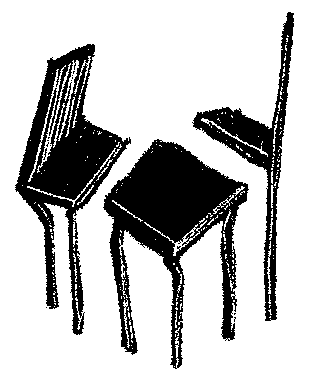
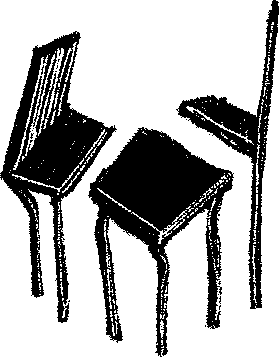
mass

Changed region(s): [[0.0, 0.0, 1.0, 1.0], [0.4301, 0.4006, 0.4588, 0.4314], [0.4014, 0.4314, 0.4301, 0.4622]]

diff --git a/assets/css/cusdis.css b/assets/css/cusdis.css
@@ -1,1 +1,1 @@
-/*! tailwindcss v2.2.19 | MIT License | https://tailwindcss.com *//*! modern-normalize v1.1.0 | MIT License | https://github.com/sindresorhus/modern-normalize */*,:before,:after{box-sizing:border-box}html{-moz-tab-size:4;-o-tab-size:4;tab-size:4}html{line-height:1.15;-webkit-text-size-adjust:100%}body{margin:0}body{font-family:system-ui,-apple-system,Segoe UI,Roboto,Helvetica,Arial,sans-serif,"Apple Color Emoji","Segoe UI Emoji"}hr{height:0;color:inherit}abbr[title]{-webkit-text-decoration:underline dotted;text-decoration:underline dotted}b,strong{font-weight:bolder}code,kbd,samp,pre{font-family:ui-monospace,SFMono-Regular,Consolas,Liberation Mono,Menlo,monospace;font-size:1em}small{font-size:80%}sub,sup{font-size:75%;line-height:0;position:relative;vertical-align:baseline}sub{bottom:-.25em}sup{top:-.5em}table{text-indent:0;border-color:inherit}button,input,optgroup,select,textarea{font-family:inherit;font-size:100%;line-height:1.15;margin:0}button,select{text-transform:none}button,[type=button]{-webkit-appearance:button}::-moz-focus-inner{border-style:none;padding:0}legend{padding:0}progress{vertical-align:baseline}::-webkit-inner-spin-button,::-webkit-outer-spin-button{height:auto}::-webkit-search-decoration{-webkit-appearance:none}::-webkit-file-upload-button{-webkit-appearance:button;font:inherit}summary{display:list-item}blockquote,dl,dd,h1,h2,h3,h4,h5,h6,hr,figure,p,pre{margin:0}button{background-color:transparent;background-image:none}fieldset{margin:0;padding:0}ol,ul{list-style:none;margin:0;padding:0}html{font-family:ui-sans-serif,system-ui,-apple-system,BlinkMacSystemFont,Segoe UI,Roboto,Helvetica Neue,Arial,Noto Sans,sans-serif,"Apple Color Emoji","Segoe UI Emoji",Segoe UI Symbol,"Noto Color Emoji";line-height:1.5}body{font-family:inherit;line-height:inherit}*,:before,:after{box-sizing:border-box;border-width:0;border-style:solid;border-color:currentColor}hr{border-top-width:1px}img{border-style:solid}textarea{resize:vertical}input::-moz-placeholder,textarea::-moz-placeholder{opacity:1;color:#9ca3af}input::placeholder,textarea::placeholder{opacity:1;color:#9ca3af}button{cursor:pointer}table{border-collapse:collapse}h1,h2,h3,h4,h5,h6{font-size:inherit;font-weight:inherit}a{color:inherit;text-decoration:inherit}button,input,optgroup,select,textarea{padding:0;line-height:inherit;color:inherit}pre,code,kbd,samp{font-family:ui-monospace,SFMono-Regular,Menlo,Monaco,Consolas,Liberation Mono,Courier New,monospace}img,svg,video,canvas,audio,iframe,embed,object{display:block;vertical-align:middle}img,video{max-width:100%;height:auto}*,:before,:after{--tw-border-opacity: 1;border-color:rgba(229,231,235,var(--tw-border-opacity))}.my-2{margin-top:.5rem;margin-bottom:.5rem}.my-4{margin-top:1rem;margin-bottom:1rem}.my-8{margin-top:2rem;margin-bottom:2rem}.mt-4{margin-top:1rem}.mr-2{margin-right:.5rem}.mb-2{margin-bottom:.5rem}.mb-4{margin-bottom:1rem}.block{display:block}.flex{display:flex}.table{display:table}.grid{display:grid}.h-24{height:6rem}.w-full{width:100%}@-webkit-keyframes spin{to{transform:rotate(360deg)}}@keyframes spin{to{transform:rotate(360deg)}}@-webkit-keyframes ping{75%,to{transform:scale(2);opacity:0}}@keyframes ping{75%,to{transform:scale(2);opacity:0}}@-webkit-keyframes pulse{50%{opacity:.5}}@keyframes pulse{50%{opacity:.5}}@-webkit-keyframes bounce{0%,to{transform:translateY(-25%);-webkit-animation-timing-function:cubic-bezier(.8,0,1,1);animation-timing-function:cubic-bezier(.8,0,1,1)}50%{transform:none;-webkit-animation-timing-function:cubic-bezier(0,0,.2,1);animation-timing-function:cubic-bezier(0,0,.2,1)}}@keyframes bounce{0%,to{transform:translateY(-25%);-webkit-animation-timing-function:cubic-bezier(.8,0,1,1);animation-timing-function:cubic-bezier(.8,0,1,1)}50%{transform:none;-webkit-animation-timing-function:cubic-bezier(0,0,.2,1);animation-timing-function:cubic-bezier(0,0,.2,1)}}.grid-cols-1{grid-template-columns:repeat(1,minmax(0,1fr))}.grid-cols-2{grid-template-columns:repeat(2,minmax(0,1fr))}.items-center{align-items:center}.gap-4{gap:1rem}.rounded{border-radius:.25rem}.border,.dark .dark\:border{border-width:1px}.border-l-2{border-left-width:2px}.border-gray-200{--tw-border-opacity: 1;border-color:rgba(229,231,235,var(--tw-border-opacity))}.dark .dark\:border-gray-100{--tw-border-opacity: 1;border-color:rgba(243,244,246,var(--tw-border-opacity))}.bg-transparent{background-color:transparent}.bg-gray-100{--tw-bg-opacity: 1;background-color:rgba(243,244,246,var(--tw-bg-opacity))}.bg-gray-200{--tw-bg-opacity: 1;background-color:rgba(229,231,235,var(--tw-bg-opacity))}.bg-blue-500{--tw-bg-opacity: 1;background-color:rgba(59,130,246,var(--tw-bg-opacity))}.dark .dark\:bg-transparent{background-color:transparent}.dark .dark\:bg-gray-500{--tw-bg-opacity: 1;background-color:rgba(107,114,128,var(--tw-bg-opacity))}.p-2{padding:.5rem}.px-1{padding-left:.25rem;padding-right:.25rem}.px-2{padding-left:.5rem;padding-right:.5rem}.px-4{padding-left:1rem;padding-right:1rem}.py-0{padding-top:0;padding-bottom:0}.py-1{padding-top:.25rem;padding-bottom:.25rem}.py-2{padding-top:.5rem;padding-bottom:.5rem}.py-0\.5{padding-top:.125rem;padding-bottom:.125rem}.pl-4{padding-left:1rem}.text-center{text-align:center}.text-xs{font-size:.75rem;line-height:1rem}.text-sm{font-size:.875rem;line-height:1.25rem}.font-medium{font-weight:500}.font-bold{font-weight:700}.text-white{--tw-text-opacity: 1;color:rgba(255,255,255,var(--tw-text-opacity))}.text-gray-500{--tw-text-opacity: 1;color:rgba(107,114,128,var(--tw-text-opacity))}.text-gray-900{--tw-text-opacity: 1;color:rgba(17,24,39,var(--tw-text-opacity))}.dark .dark\:text-gray-100{--tw-text-opacity: 1;color:rgba(243,244,246,var(--tw-text-opacity))}.dark .dark\:text-gray-200{--tw-text-opacity: 1;color:rgba(229,231,235,var(--tw-text-opacity))}.dark .dark\:text-gray-400{--tw-text-opacity: 1;color:rgba(156,163,175,var(--tw-text-opacity))}.underline{text-decoration:underline}*,:before,:after{--tw-shadow: 0 0 #0000}.dark .dark\:outline-none{outline:2px solid transparent;outline-offset:2px}*,:before,:after{--tw-ring-inset: var(--tw-empty, );--tw-ring-offset-width: 0px;--tw-ring-offset-color: #fff;--tw-ring-color: rgba(59, 130, 246, .5);--tw-ring-offset-shadow: 0 0 #0000;--tw-ring-shadow: 0 0 #0000}blockquote{margin-top:1rem;margin-bottom:1rem;--tw-bg-opacity: 1;background-color:rgba(243,244,246,var(--tw-bg-opacity))}.dark blockquote{--tw-bg-opacity: 1;background-color:rgba(17,24,39,var(--tw-bg-opacity))}blockquote{padding:.5rem 1rem}
+/*! tailwindcss v2.2.19 | MIT License | https://tailwindcss.com *//*! modern-normalize v1.1.0 | MIT License | https://github.com/sindresorhus/modern-normalize */*,:before,:after{box-sizing:border-box}html{-moz-tab-size:4;-o-tab-size:4;tab-size:4}html{line-height:1.15;-webkit-text-size-adjust:100%}body{margin:0}body{font-family:system-ui,-apple-system,Segoe UI,Roboto,Helvetica,Arial,sans-serif,"Apple Color Emoji","Segoe UI Emoji"}hr{height:0;color:inherit}abbr[title]{-webkit-text-decoration:underline dotted;text-decoration:underline dotted}b,strong{font-weight:bolder}code,kbd,samp,pre{font-family:ui-monospace,SFMono-Regular,Consolas,Liberation Mono,Menlo,monospace;font-size:1em}small{font-size:80%}sub,sup{font-size:75%;line-height:0;position:relative;vertical-align:baseline}sub{bottom:-.25em}sup{top:-.5em}table{text-indent:0;border-color:inherit}button,input,optgroup,select,textarea{font-family:inherit;font-size:100%;line-height:1.15;margin:0}button,select{text-transform:none}button,[type=button]{-webkit-appearance:button}::-moz-focus-inner{border-style:none;padding:0}legend{padding:0}progress{vertical-align:baseline}::-webkit-inner-spin-button,::-webkit-outer-spin-button{height:auto}::-webkit-search-decoration{-webkit-appearance:none}::-webkit-file-upload-button{-webkit-appearance:button;font:inherit}summary{display:list-item}blockquote,dl,dd,h1,h2,h3,h4,h5,h6,hr,figure,p,pre{margin:0}button{background-color:transparent;background-image:none}fieldset{margin:0;padding:0}ol,ul{list-style:none;margin:0;padding:0}html{font-family:ui-sans-serif,system-ui,-apple-system,BlinkMacSystemFont,Segoe UI,Roboto,Helvetica Neue,Arial,Noto Sans,sans-serif,"Apple Color Emoji","Segoe UI Emoji",Segoe UI Symbol,"Noto Color Emoji";line-height:1.5}body{font-family:inherit;line-height:inherit}*,:before,:after{box-sizing:border-box;border-width:0;border-style:solid;border-color:currentColor}hr{border-top-width:1px}img{border-style:solid}textarea{resize:vertical}input::-moz-placeholder,textarea::-moz-placeholder{opacity:1;color:#9ca3af}input::placeholder,textarea::placeholder{opacity:1;color:#9ca3af}button{cursor:pointer}table{border-collapse:collapse}h1,h2,h3,h4,h5,h6{font-size:inherit;font-weight:inherit}a{color:inherit;text-decoration:inherit}button,input,optgroup,select,textarea{padding:0;line-height:inherit;color:inherit}pre,code,kbd,samp{font-family:ui-monospace,SFMono-Regular,Menlo,Monaco,Consolas,Liberation Mono,Courier New,monospace}img,svg,video,canvas,audio,iframe,embed,object{display:block;vertical-align:middle}img,video{max-width:100%;height:auto}*,:before,:after{--tw-border-opacity: 1;border-color:rgba(229,231,235,var(--tw-border-opacity))}.my-2{margin-top:.5rem;margin-bottom:.5rem}.my-4{margin-top:1rem;margin-bottom:1rem}.my-8{margin-top:2rem;margin-bottom:2rem}.mt-4{margin-top:1rem}.mr-2{margin-right:.5rem}.mb-2{margin-bottom:.5rem}.mb-4{margin-bottom:1rem}.block{display:block}.flex{display:flex}.table{display:table}.grid{display:grid}.h-24{height:6rem}.w-full{width:100%}@-webkit-keyframes spin{to{transform:rotate(360deg)}}@keyframes spin{to{transform:rotate(360deg)}}@-webkit-keyframes ping{75%,to{transform:scale(2);opacity:0}}@keyframes ping{75%,to{transform:scale(2);opacity:0}}@-webkit-keyframes pulse{50%{opacity:.5}}@keyframes pulse{50%{opacity:.5}}@-webkit-keyframes bounce{0%,to{transform:translateY(-25%);-webkit-animation-timing-function:cubic-bezier(.8,0,1,1);animation-timing-function:cubic-bezier(.8,0,1,1)}50%{transform:none;-webkit-animation-timing-function:cubic-bezier(0,0,.2,1);animation-timing-function:cubic-bezier(0,0,.2,1)}}@keyframes bounce{0%,to{transform:translateY(-25%);-webkit-animation-timing-function:cubic-bezier(.8,0,1,1);animation-timing-function:cubic-bezier(.8,0,1,1)}50%{transform:none;-webkit-animation-timing-function:cubic-bezier(0,0,.2,1);animation-timing-function:cubic-bezier(0,0,.2,1)}}.grid-cols-1{grid-template-columns:repeat(1,minmax(0,1fr))}.grid-cols-2{grid-template-columns:repeat(2,minmax(0,1fr))}.items-center{align-items:center}.gap-4{gap:1rem}.rounded{border-radius:.25rem}.border,.dark .dark\:border{border-width:1px}.border-l-2{border-left-width:2px}.border-gray-200{--tw-border-opacity: 1;border-color:rgba(229,231,235,var(--tw-border-opacity))}.dark .dark\:border-gray-100{--tw-border-opacity: 1;border-color:rgba(243,244,246,var(--tw-border-opacity))}.bg-transparent{background-color:transparent}.bg-gray-100{--tw-bg-opacity: 1;background-color:rgba(243,244,246,var(--tw-bg-opacity))}.bg-gray-200{--tw-bg-opacity: 1;background-color:rgba(229,231,235,var(--tw-bg-opacity))}.bg-blue-500{--tw-bg-opacity: 1;background-color:rgba(59,130,246,var(--tw-bg-opacity))}.dark .dark\:bg-transparent{background-color:transparent}.dark .dark\:bg-gray-500{--tw-bg-opacity: 1;background-color:rgba(107,114,128,var(--tw-bg-opacity))}.p-2{padding:.5rem}.px-1{padding-left:.25rem;padding-right:.25rem}.px-2{padding-left:.5rem;padding-right:.5rem}.px-4{padding-left:1rem;padding-right:1rem}.py-0{padding-top:0;padding-bottom:0}.py-1{padding-top:.25rem;padding-bottom:.25rem}.py-2{padding-top:.5rem;padding-bottom:.5rem}.py-0\.5{padding-top:.125rem;padding-bottom:.125rem}.pl-4{padding-left:1rem}.text-center{text-align:center}.text-xs{font-size:.75rem;line-height:1rem}.text-sm{font-size:.875rem;line-height:1.25rem}.font-medium{font-weight:500}.font-bold{font-weight:700}.text-white{--tw-text-opacity: 1;color:rgba(255,255,255,var(--tw-text-opacity))}.text-gray-500{--tw-text-opacity: 1;color:rgba(107,114,128,var(--tw-text-opacity))}.text-gray-900{--tw-text-opacity: 1;color:rgba(17,24,39,var(--tw-text-opacity))}.dark .dark\:text-gray-100{--tw-text-opacity: 1;color:rgba(243,244,246,var(--tw-text-opacity))}.dark .dark\:text-gray-200{--tw-text-opacity: 1;color:rgba(229,231,235,var(--tw-text-opacity))}.dark .dark\:text-gray-400{--tw-text-opacity: 1;color:rgba(156,163,175,var(--tw-text-opacity))}.underline{text-decoration:underline}*,:before,:after{--tw-shadow: 0 0 #0000}.dark .dark\:outline-none{outline:2px solid transparent;outline-offset:2px}*,:before,:after{--tw-ring-inset: var(--tw-empty, );--tw-ring-offset-width: 0px;--tw-ring-offset-color: #e1ffc4;--tw-ring-color: rgba(59, 130, 246, .5);--tw-ring-offset-shadow: 0 0 #0000;--tw-ring-shadow: 0 0 #0000}blockquote{margin-top:1rem;margin-bottom:1rem;--tw-bg-opacity: 1;background-color:rgba(243,244,246,var(--tw-bg-opacity))}.dark blockquote{--tw-bg-opacity: 1;background-color:rgba(17,24,39,var(--tw-bg-opacity))}blockquote{padding:.5rem 1rem}

diff --git a/_includes/magnet_poetry.html b/_includes/magnet_poetry.html
@@ -1,4 +1,5 @@
 <div id = "inner-gamebox">
+  <p style="color: red;">**This experience is currently broken in mobile :(</p>
 
   <!-- Magnets -->
   <div id="magnet1" draggable="true" class="draggable">more</div> 
@@ -37,11 +38,6 @@
 
     function dragElement(elmnt) {
       var pos1 = 0, pos2 = 0, pos3 = 0, pos4 = 0;
-
-      // Needed to stop text highlighting on mobile
-      elmnt.ontouchstart = function(e) {
-        e.preventDefault();
-      }
 
       elmnt.onmousedown = dragMouseDown;
 

diff --git a/_sass/_base.scss b/_sass/_base.scss
@@ -106,6 +106,15 @@ embed {
   margin: 2em auto;
 }
 
+object {
+  display: flex;
+  // If an embedded element is smaller than the parent element than
+  // width will stretch it to the full width of its parent, max-width will not
+  width: 100%; 
+  min-height: 50em;
+  margin: 2em auto;
+}
+
 figure img, figure video {
   margin: 2em auto 1em;
 }

diff --git a/pages/my_content.md b/pages/my_content.md
@@ -22,22 +22,43 @@ title: Stuff I Make
 
 <h2 class = "section-header">⭒❀˚ Poetry °❀ೃ࿔</h2>
 
+<div style="display: flex; justify-content: space-between; padding: 2em; min-width: 100%">
+    <a style ="min-width: 100%" href="{{ site.baseurl }}{% post_url 2024-06-10-a-long-season-of-color %}">
+        <img style ="min-width: 100%" alt="Illustration banner" src="{{ "/assets/images/jessie/a-long-season-of-color.png" | relative_url }}" />
+        <p style="margin-left: 20px;">[2024-06-10] A Long Season of Color (Seattle in June)</p>
+    </a>
+</div>
 
-1. [2024-06-10] [A Long Season of Color (Seattle in June)]({{ site.baseurl }}{% post_url 2024-06-10-a-long-season-of-color %})
-2. [2024-11-17] [A Modest Room (San Jose in October)]({{ site.baseurl }}{% post_url 2024-11-17-a-modest-room %})
-3. [2024-12-27] [Sisters]({{ site.baseurl }}{% post_url 2024-12-27-sisters %})
+<div style="display: flex; justify-content: space-between; padding: 2em;">
+    <a href="{{ site.baseurl }}{% post_url 2024-11-17-a-modest-room %}">
+        <img alt="Illustration banner" src="{{ "/assets/images/jessie/a-modest-room.png" | relative_url }}" />
+        <p style="margin-left: 20px;">[2024-11-17] A Modest Room (San Jose in October)</p>
+    </a>
+</div>
+
+[[2024-12-27] Sisters]({{ site.baseurl }}{% post_url 2024-12-27-sisters %})
 
 <div style="display: flex; justify-content: space-between; padding: 2em;">
     <a href="{{ site.baseurl }}{% post_url 2025-06-25-heat-death %}">
         <img alt="Illustration banner" src="{{ "/assets/images/jessie/heat-death.png" | relative_url }}" />
-        <p style="margin-left: 20px;">4. [2025-06-25] On heat death / sleeping next to you</p>
+        <p style="margin-left: 20px;">[2025-06-25] On heat death / sleeping next to you</p>
     </a>
 </div>
 
 
-5. [2025-08-07] [Too much dreams]({{ site.baseurl }}{% post_url 2025-08-07-everything-is-you %})
-6. [2025-08-19] ["I don’t want to lose more people to Palm Beach"]({{ site.baseurl }}{% post_url 2025-08-19-palm-beach %})
-7. [2025-09-01] ["Do not sail to Byzantium"]({{ site.baseurl }}{% post_url 2025-09-01-byzantium %})
+[[2025-08-07] Too much dreams]({{ site.baseurl }}{% post_url 2025-08-07-everything-is-you %})
+<br>
+[[2025-08-19] "I don’t want to lose more people to Palm Beach"]({{ site.baseurl }}{% post_url 2025-08-19-palm-beach %})
+<br>
+[[2025-09-01] Do not sail to Byzantium]({{ site.baseurl }}{% post_url 2025-09-01-byzantium %})
+<br>
+
+<div style="display: flex; justify-content: space-between; padding: 2em;">
+    <a href="{{ site.baseurl }}{% post_url 2025-09-21-desolate-summer %}">
+        <img alt="Illustration banner" src="{{ "/assets/images/debris-in-the-harbor.jpg" | relative_url }}" />
+        <p style="margin-left: 20px;">[2025-09-21] Desolate Summer</p>
+    </a>
+</div>
 
 <br><br>
 

diff --git a/_posts/2025-09-21-desolate-summer.md b/_posts/2025-09-21-desolate-summer.md
@@ -1,0 +1,112 @@
+---
+layout: post
+title: "Desolate Summer"
+author: "Hannah Lim"
+date: 2025-09-21
+published: true
+---
+
+<figure>
+  <img alt="Picture of some leaves in dark water" src="{{ "/assets/images/debris-in-the-harbor.jpg" | relative_url }}" />
+  <figcaption>
+    East River, Autumn
+  </figcaption>
+</figure>
+
+Desolate Summer,
+
+How it ends every
+
+Time it begins.
+
+<br>
+
+The last summer on Earth will
+
+Breeze so wind
+
+Shine so sun
+
+Hot so clear and bright
+
+The first breath of hell will
+
+Sigh delivered.
+
+<br>
+
+Unlike
+
+The first summer on Earth which
+
+Croaked so egg
+
+Ran so yolk
+
+Trickled so wet and young
+
+The first breath of fall cooled
+
+Some great white relief.
+
+<br>
+
+Once learned, an end to grief
+
+Anticipates itself doubly:
+
+Once empty and once full
+
+Once in memory, and once
+
+In Hope.
+
+<br>
+
+The summer fizzles like this, a love
+
+Cooling, cooling, burning
+
+The same way all fire dies, by
+
+Eating itself to its own
+
+End, and yet --
+
+<br>
+
+Stoke,
+
+Stoke,
+
+Stoke the night that returns
+
+Humid. Stoke 
+
+The day whose splendor
+
+Shocks. And stoke finally
+
+The song of your voice
+
+Clear and high above the fray
+
+So you can hear it over the guitar.
+
+<br>
+
+Desolate Summer:
+
+How it ends every
+
+Fresh song sung.
+
+<br>
+
+Why sing at all?
+
+Indeed, why sing at all?
+
+Just the same miraculous reason
+
+Summer always comes.

diff --git a/pages/contributing.md b/pages/contributing.md
@@ -15,6 +15,6 @@ title: Contribute to my Blog!
 
 3. The open source typeface [Street Transvestite Action Revolutionaries](https://genderfailpress.info/PROTEST-FONTS) uses an OFL license which can be found [here](/assets/fonts/Street Transvestite Action Revolutionaries License.txt)
 
-3. The site's comment system is powered by [Cusdis](https://cusdis.com/doc#/), a free open source privacy-first comment system.
+3. The site's guest book is powered by [Cusdis](https://cusdis.com/doc#/), a free open source privacy-first comment system.
 
 

diff --git a/_posts/2025-08-30-proposal.md b/_posts/2025-08-30-proposal.md
@@ -15,5 +15,9 @@ To R&J, congratulations. Your love for each other truly inspires me, and restore
 
 #### This is the proposal document written by J:
 
-<embed src="/assets/images/engagement-term-sheet.pdf" type="application/pdf">
+<object data="/assets/images/engagement-term-sheet.pdf" type="application/pdf" width="100%" height="100%">
+  <p>Your web browser doesn't have a PDF plugin.
+  Instead you can <a href="/assets/images/engagement-term-sheet.pdf">click here to
+  download the PDF file.</a></p>
+</object>
 

diff --git a/_posts/2025-09-05-work-pact.md b/_posts/2025-09-05-work-pact.md
@@ -6,7 +6,7 @@ date: 2025-09-05
 published: true
 ---
 
-#### This weekend (Friday 9/5 - Sunday 9/7) the honored roomies of our home will accomplish the following work
+This weekend (Friday 9/5 - Sunday 9/7) the honored roomies of our home will accomplish the following work
 
 Ishita
 
